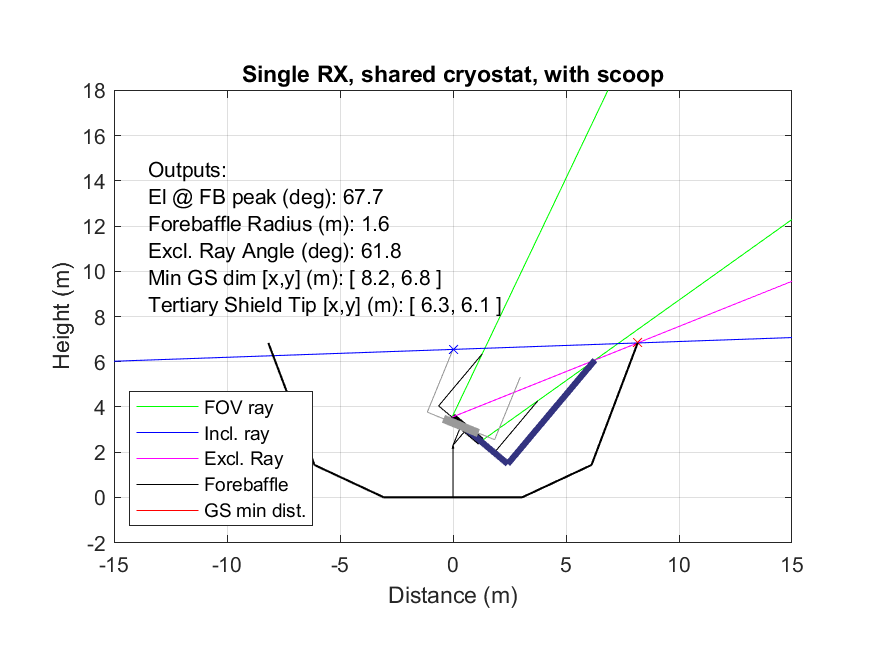
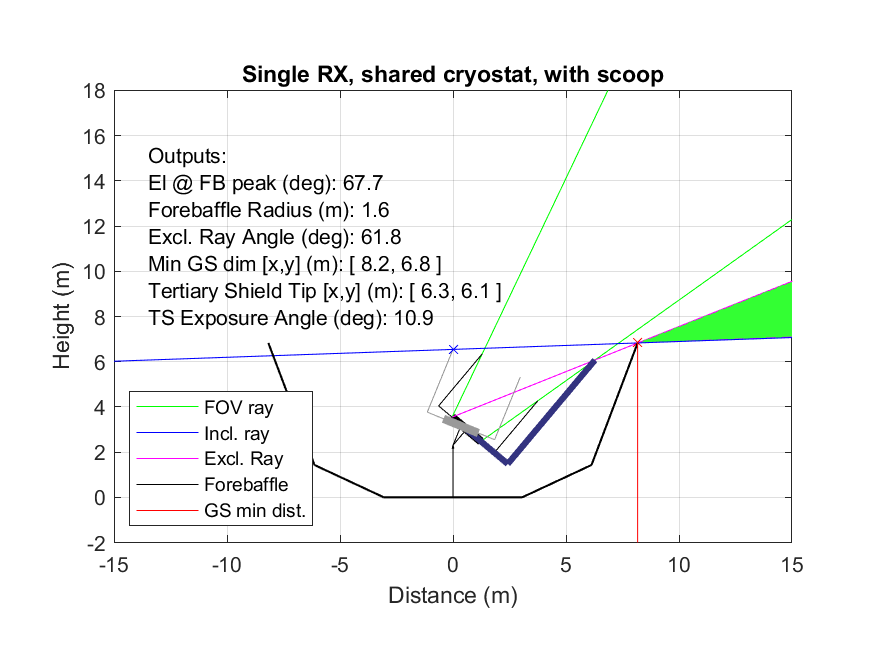
Added exposure angle, grazing line, green area, updated all figures

Changed region(s): [[0.1543, 0.2134, 0.5863, 0.5183], [0.7406, 0.4268, 0.9257, 0.5183], [0.7097, 0.5183, 0.7406, 0.5488]]

diff --git a/s4_gs_study.m b/s4_gs_study.m
@@ -43,8 +43,8 @@ function [gs_params, varargout] = s4_gs_study(shield_params, varargin)
 %       fixwindist  If value given, don't close-pack rxs and instead fix
 %                   the enclosed radius
 %       minscoop    Automatically determines the scoop length based on by
-%                   finding the intersection between the bottom FOV ray of 
-%                   the RX at the bottom of the drum and the Exclusion ray 
+%                   finding the intersection between the bottom FOV ray of
+%                   the RX at the bottom of the drum and the Exclusion ray
 %                   of the RX rotated to the top of the drum.
 %
 % [Output]
@@ -295,11 +295,26 @@ for i = 1:2
         else
             b2 = fb_point(2);
             P = get_intersection(line1,[m2 b2]);
-            %P_alt = get_intersection(line2, [m2,b2]);
-            %Ps = [P;P_alt];
-            %[Pmax, Imax] = max(Ps(:,1));
+            P_alt = get_intersection(line2, [m2,b2]);
+            Pline = [line1];
+            Ps = [P];
+            
+            if ~singlestat
+                Pline = [Pline; line2];
+                Ps = [Ps; P_alt];
+            end
+            
+            if threeshield & ~singlestat
+                P_graze = get_intersection(grazeline, [m2,b2]);
+                Ps = [Ps; P_graze];
+                Pline = [Pline; grazeline];
+            end
+            
+            [Pmax, Imax] = max(Ps(:,1));
+            P = Ps(Imax,:);
+            Pline = Pline(Imax,:);
         end
-        %P = Ps(Imax,:);
+        
     end
     %else
     % Make exclusion ray
@@ -324,7 +339,7 @@ for i = 1:2
         threeshield = norm(Q)*sin(th);
         ts_dim = true;
         %gs_dim = [0 0]; %P_int+[1,0];
-
+        
     end
     
     
@@ -340,21 +355,33 @@ for i = 1:2
         end
         
         ts_l = pnt2*ts_r;
-
+        
         
         if i==1
             [excl, excl2, line1, excl_ang] = make_excl_rays(pos_bottom,pnt,pnt2,ts_l,ts_r,ts_h,win_d);
             [excl_alt, excl2_alt, line2, excl_ang_alt] = make_excl_rays(pos_top,pnt,pnt2,fb_l,fb_r,fb_h,win_d);
+            
+            exposure_angle = excl_ang-excl_ang_alt;
+            % Make the exclusion ray that just grazes the scoop
+            ts_pos = ts_l+pos_bottom+(ts_h*pnt);
+            b_graze = ts_pos(2)-line2(1)*ts_pos(1);
+            grazeline = [line2(1), b_graze];
+            th_line = atand(line2(1));
+            grazeline_start = [ts_pos(1)-ts_h/cosd(90-excl_ang_alt)*cosd(th_line), 0];
+            grazeline_start(2) = grazeline_start(1)*line2(1)+b_graze;
+            
         else
             [excl_pk, excl2_pk, line1_pk, excl_ang_pk] = make_excl_rays(pos_top,pnt,pnt2,fb_l,fb_r,fb_h,win_d);
             [excl_alt_pk, excl2_alt_pk, line2_pk, excl_ang_alt_pk] = make_excl_rays(altpos_bottom,pnt,pnt2,fb_l,fb_r,fb_h,win_d);
         end
-
+        
     else
         
         if i==1
             [excl, excl2, line1, excl_ang] = make_excl_rays(pos_bottom,pnt,pnt2,fb_l,fb_r,fb_h,win_d);
             [excl_alt, excl2_alt, line2, excl_ang_alt] = make_excl_rays(pos_top,pnt,pnt2,fb_l,fb_r,fb_h,win_d);
+            
+            
         else
             [excl_pk, excl2_pk, line1_pk, excl_ang_pk] = make_excl_rays(pos_top,pnt,pnt2,fb_l,fb_r,fb_h,win_d);
             [excl_alt_pk, excl2_alt_pk, line2_pk, excl_ang_alt_pk] = make_excl_rays(altpos_bottom,pnt,pnt2,fb_l,fb_r,fb_h,win_d);
@@ -371,12 +398,20 @@ for i = 1:2
         gs_params.excl_ang = excl_ang;
         if threeshield
             gs_params.ts_dim = ts_l+pos_bottom+(ts_h*pnt);
+            gs_params.exp_angle = exposure_angle;
         end
     else
         gs_params.el_peak = 90-el_peak;
         gs_params.fb_h = fb_h;
         gs_params.fb_r = fb_r;
-        gs_params.gs_dim = P;
+        if P(1)>0
+           gs_params.gs_dim = P;
+        else
+           P = [1000,1000];
+           gs_params.gs_dim = [NaN,NaN];
+        end
+        
+        
     end
     
     % Plotting
@@ -415,13 +450,13 @@ for i = 1:2
             quiver((-winv(1)+pos_bottom(1)),(-winv(2)+pos_bottom(2)),fov1(1),fov1(2),0,'g','ShowArrowHead','off')
         end
         
-        if 1%i==1
+        %if 1%i==1
         % Forebaffle Vecs
         quiver(pos_bottom(1),pos_bottom(2),fb_l(1),fb_l(2),0,'Color',clr{i},'ShowArrowHead','off')
         quiver(pos_bottom(1),pos_bottom(2),-fb_l(1),-fb_l(2),0,'Color',clr{i},'ShowArrowHead','off')
         quiver(fb_l(1)+pos_bottom(1),fb_l(2)+pos_bottom(2),fb_h*pnt(1),fb_h*pnt(2),0,'Color',clr{i},'ShowArrowHead','off')
         quiver((-fb_l(1)+pos_bottom(1)),(-fb_l(2)+pos_bottom(2)),fb_h*pnt(1),fb_h*pnt(2),0,'Color',clr{i},'ShowArrowHead','off')
-        end
+        %end
         if i == 1
             % Exclusion Ray Vecs
             
@@ -429,13 +464,18 @@ for i = 1:2
             quiver((pos_bottom(1)-winv(1)),(pos_bottom(2)-winv(2)),excl2(1)*1000,excl2(2)*1000,0,'m','ShowArrowHead','off')
             
             if ~singlestat
-            %quiver(altpos(1)+winv(1),altpos(2)+winv(2),excl_alt(1)*1000,excl_alt(2)*1000,0,'Color',mag_clr*0.5,'ShowArrowHead','off')
-            quiver((pos_top(1)-winv(1)),(pos_top(2)-winv(2)),excl2_alt(1)*1000,excl2_alt(2)*1000,0,'m--','ShowArrowHead','off')
+                %quiver(altpos(1)+winv(1),altpos(2)+winv(2),excl_alt(1)*1000,excl_alt(2)*1000,0,'Color',mag_clr*0.5,'ShowArrowHead','off')
+                quiver((pos_top(1)-winv(1)),(pos_top(2)-winv(2)),excl2_alt(1)*1000,excl2_alt(2)*1000,0,'m--','ShowArrowHead','off')
             end
             % Draw the scoop if we want to.
-            if threeshield & i==1
+            if threeshield
                 quiver((ts_l(1)+pos_bottom(1)),(ts_l(2)+pos_bottom(2)),ts_h*pnt(1),ts_h*pnt(2),0,'Color',[0 0 0.3]+0.2,'ShowArrowHead','off','LineWidth',3)
                 quiver((pos_bottom(1)),(pos_bottom(2)),ts_l(1),ts_l(2),0,'Color',[0 0 0.3]+0.2,'ShowArrowHead','off','LineWidth',3)
+            end
+            
+            % Draw the graze line
+            if threeshield & ~singlestat
+                plot([grazeline_start(1),1000],grazeline_start(2)+[0,1000*line2(1)],'m-.')
             end
             %end
         else
@@ -452,33 +492,28 @@ for i = 1:2
             if minscoop
                 fill([P(1) 100 100],[P(2) m2*100+P(2) excl_line(1)*100+excl_line(2)],[0 0.8 0]+0.2,'EdgeColor','m','LineStyle','--')
                 plot([-1000,P_int(1)],[1000*tand(smargin)+b2,P_int(2)],'b--')
+            else
+                fill([P(1) 100 100],[P(2) m2*100+P(2) Pline(1)*100+Pline(2)],[0 0.8 0]+0.2,'EdgeColor','m','LineStyle','--')
             end
-                plot([-1000,1000],b2+[-1000,1000]*tand(smargin),'b')
-                plot(P(1),P(2),'rx')
-                plot(fb_point(1),fb_point(2),'bx')
-           
-            
-            
-            
-
+            plot([-1000,1000],b2+[-1000,1000]*tand(smargin),'b')
+            plot(P(1),P(2),'rx')
+            plot(fb_point(1),fb_point(2),'bx')
             
         end
         
         % Draw extra window / forebaffles
         if n_rx > 1 %& i==1
             clrx = 0.1;
-%             quiver(altpos_bottom(1),altpos_bottom(2),winv(1),winv(2),0,'Color',clr{i}+clrx,'ShowArrowHead','off','LineWidth',4)
-%             quiver(altpos_bottom(1),altpos_bottom(2),-winv(1),-winv(2),0,'Color',clr{i}+clrx,'ShowArrowHead','off','LineWidth',4)
-%             quiver(altpos_bottom(1),altpos_bottom(2),fb_l(1),fb_l(2),0,'Color',clr{i}+clrx,'ShowArrowHead','off')
-%             quiver(altpos_bottom(1),altpos_bottom(2),-fb_l(1),-fb_l(2),0,'Color',clr{i}+clrx,'ShowArrowHead','off')
-%             
+            %             quiver(altpos_bottom(1),altpos_bottom(2),winv(1),winv(2),0,'Color',clr{i}+clrx,'ShowArrowHead','off','LineWidth',4)
+            %             quiver(altpos_bottom(1),altpos_bottom(2),-winv(1),-winv(2),0,'Color',clr{i}+clrx,'ShowArrowHead','off','LineWidth',4)
+            %             quiver(altpos_bottom(1),altpos_bottom(2),fb_l(1),fb_l(2),0,'Color',clr{i}+clrx,'ShowArrowHead','off')
+            %             quiver(altpos_bottom(1),altpos_bottom(2),-fb_l(1),-fb_l(2),0,'Color',clr{i}+clrx,'ShowArrowHead','off')
+            %
             quiver(pos_top(1),pos_top(2),winv(1),winv(2),0,'Color',clr{i}+clrx,'ShowArrowHead','off','LineWidth',4)
             quiver(pos_top(1),pos_top(2),-winv(1),-winv(2),0,'Color',clr{i}+clrx,'ShowArrowHead','off','LineWidth',4)
             quiver(pos_top(1),pos_top(2),fb_l(1),fb_l(2),0,'Color',clr{i}+clrx,'ShowArrowHead','off')
             quiver(pos_top(1),pos_top(2),-fb_l(1),-fb_l(2),0,'Color',clr{i}+clrx,'ShowArrowHead','off')
-            
-            
-            
+
             
             quiver(fb_l(1)+pos_top(1),fb_l(2)+pos_top(2),fb_h*pnt(1),fb_h*pnt(2),0,'Color',clr{i}+clrx,'ShowArrowHead','off')
             quiver((-fb_l(1)+pos_top(1)),(-fb_l(2)+pos_top(2)),fb_h*pnt(1),fb_h*pnt(2),0,'Color',clr{i}+clrx,'ShowArrowHead','off')
@@ -499,7 +534,7 @@ for i = 1:2
             quiver(-P(1)*g1,0,-P(1)*g2,P(1)*g2*tand(gd),0,'Color','k','ShowArrowHead','off','LineWidth',1)
             quiver(-P(1)*(g1+g2),P(1)*g2*tand(gd),-P(1)*g3,(P(2)-P(1)*g2*tand(gd)),0,'Color','k','ShowArrowHead','off','LineWidth',1)
             
-            
+            plot([P(1),P(1)],[-1000,P(2)],'r')
             
         end
         
@@ -541,13 +576,14 @@ if PLOT
             sprintf('El @ FB peak (deg): %2.1f',90-el_peak),...
             sprintf('Forebaffle Radius (m): %2.1f',fb_r),...
             sprintf('Excl. Ray Angle (deg): %2.1f',excl_ang),...
-            sprintf('Min GS dim [x,y] (m): [ %2.1f, %2.1f ]',P(1),P(2))...
+            sprintf('Min GS dim [x,y] (m): [ %2.1f, %2.1f ]',gs_params.gs_dim(1),gs_params.gs_dim(2))...
             };
         
         txt_str = {txt_str{:} t{:}};
         
         if threeshield
             txt_str{end+1} = sprintf('Tertiary Shield Tip [x,y] (m): [ %2.1f, %2.1f ]',gs_params.ts_dim(1),gs_params.ts_dim(2));
+            txt_str{end+1} = sprintf('TS Exposure Angle (deg): %2.1f',exposure_angle);
         end
         
     end

diff --git a/report_20200312.m b/report_20200312.m
@@ -26,9 +26,9 @@ for scoops = 1:3
 end
 
 %% Case 1.2: Extended config, minimum scoop size
-parm = s4_gs_study(sp,'PLOT',true,'OUTTEXT',true,'axis_window',15,'fixwindist',0.9388,'minscoop',true);
-printname = [figdir 'SAT_3RX_extended_scoop_fixed'];
-print(1,printname,'-dpng')
+%parm = s4_gs_study(sp,'PLOT',true,'OUTTEXT',true,'axis_window',15,'fixwindist',0.9388,'minscoop',true);
+%printname = [figdir 'SAT_3RX_extended_scoop_fixed'];
+%print(1,printname,'-dpng')
 
 %% Case 2: Compact Configuration
 sp.fov = 29.0;
@@ -45,6 +45,7 @@ for fbs = [1.75, 3.0, 3.5]
     parm = s4_gs_study(sp,'PLOT',true,'OUTTEXT',true,'axis_window',15,'spacing',0.1,'singlestat',true,'ts_dim',false);
     printname = [figdir sprintf('SAT_3RX_compact_fb_%i_noscoop',ceil(fbs))];
     print(1,printname,'-dpng')
+    
     for scoops = 1:3
         parm = s4_gs_study(sp,'PLOT',true,'OUTTEXT',true,'axis_window',15,'spacing',0.1,'singlestat',true,'ts_dim',false,'threeshield',scoops);
         printname = [figdir sprintf('SAT_3RX_compact_fb_%i_scoop_%i',ceil(fbs),scoops)];
